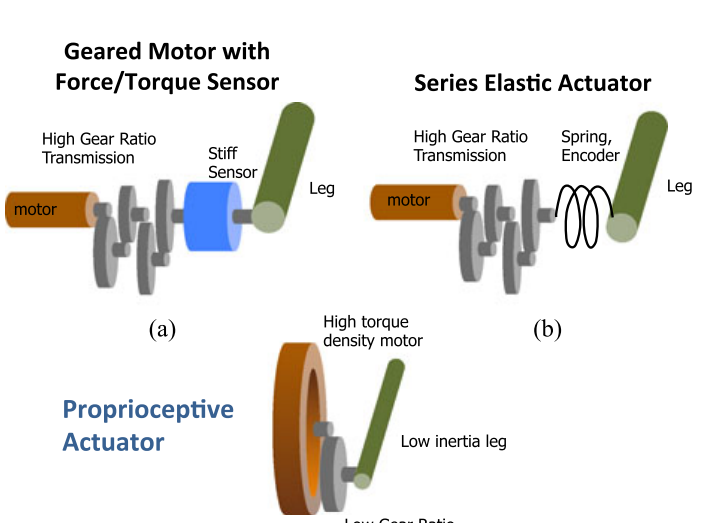
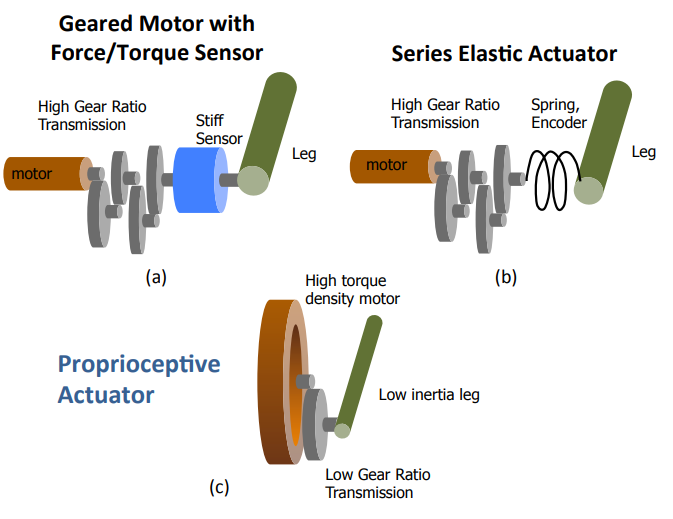
wip

diff --git a/_projects/2024-11-04-platov2.md b/_projects/2024-11-04-platov2.md
@@ -80,4 +80,60 @@ We made a first prototype of the PLATO hand with [Roboligent](https://roboligent
 - Wiring: Each motor has a total of 9 wires (3 phases + 6 SPI (including power)) With 9 motors and 3 voltage converters, and 3 ESP32 stacks (ESP32 + CAN Transceiver + SimpleFOC Mini). There are a lot of wires packed inside the hand case making it to challenge to diagnose hardware issues. 
 
 
-To address these problems, we have designed PLATO Hand V2 (PLATO2 Hand) with off-the-shelf quasi-direc drive actuator with on-board motor driver to increase 
+To address these problems, we have designed PLATO Hand V2 (PLATO2 Hand) with off-the-shelf quasi-direct drive actuator with on-board motor driver to increase the load capacity, decrease the control instability, and add more versatility in motion by greater range of motion to safetly achieve the desired task in the human enviroment.
+
+## Design (1) - Actuator 
+Actuators are the cornerstone of robotic design, particularly when utilizing off-the-shelf motors. While custom actuators offer greater design flexibility, their development is a time-consuming and costly endeavor, especially for robotic hand applications. These actuators must be compact, lightweight, and powerful—a challenging combination considering that motor torque is proportional to both power and mechanical reduction ratio. Miniaturizing such designs proves difficult as high power ratings and reduction ratios require significant space and weight.
+
+
+<div class="row">
+    <div class="col-sm mt-3 mt-md-0">
+        {% include figure.liquid loading="eager" path="assets/img/plato/proprio.jpg" title="fig1" class="img-fluid rounded z-depth-1" %}
+    </div>
+</div>
+<div class="caption">
+Three different electromagnetic (EM) actuator concepts. (a) High-ratio
+geared motor with torque sensor, (b) Series elastic actuator, (c) Proprioceptive
+force control actuator [1]
+</div>
+
+Torque density, a metric that evaluates an actuator's mass (kg) relative to its power (W), offers a valuable perspective on actuator performance. Wensing's work on proprioceptive actuator design for the Patrick Wensing's [Proprioceptive Actuator Design in MIT Cheetah](https://fab.cba.mit.edu/classes/865.18/motion/papers/mit-cheetah-actuator.pdf)[1] highlights key principles for legged robots, including reducing ground reaction forces, improving impact mitigation (backdrivability), increasing force transparency, and achieving high-bandwidth force control. Although robotic hand design may have less stringent requirements compared to legged robots, adopting these design principles can enable robotic hands to perform more versatile tasks beyond simple pick-and-place or in-hand manipulation of small, lightweight objects.
+
+High control bandwidth, transparency, and backdrivability can be achieved by employing a low reduction ratio, typically under 10, in a configuration known as a quasi-direct drive (QDD) actuator. The low gear ratio reduces the reflected rotor inertia, which improves control bandwidth, while the reduced friction enhances transparency and backdrivability. Among the off-the-shelf QDDs, [GIM3505-8](https://steadywin.cn/en/pd.jsp?id=130#_jcp=3_3) stands out as the most compact one with a 8:1 gear ratio with a rated torque of 0.43 Nm, and dimensions of 43 mm D x 30 mm H In addition, it provides integrated motor driver module with CAN bus communication. Because of these features, we have selected the GIM3505-8 for MCP and PIP joint actuators for PLATO2 Hand.
+
+## Design (2) - Finger Transmission
+Robotic finger modeling often assumes that the finger is an open-chain mechanism, with each joint capable of producing torque independently. However, placing an actuator at every joint is not a practical design choice due to its weight, bulkiness and resulting inertia during motion. Robot design often locates heavy and bulky actuators near the base (body) of the robot to achieve proximal actuation [2] and reduce the inertia of the distal links, and we have adopted same design principle for the finger of PLATO2 Hand.
+
+Among various transmission options, cable-driven mechanisms offer the highest transparency and minimal backlash [3], making them a popular choice for robotic hand designs. The flexibility of cables allows for efficient power transmission over long and curved paths, enabling more compact and anatomically accurate hand configurations by placing actuators near the wrist or forearm of the robotic hand. However, cable-driven mechanism require careful design to ensure proper tensioning, alignment, and termination of cables. In our application where frequent maintenance will be required due to tasks involving high-speed collision with the environment.
+
+Based on the requirements for collision resilience and durability, we have opted for a linkage transmission mechanism in our robotic hand design. While linkage mechanisms introduce complexities in kinematics, such as potential non-linearity in mechanical advantage and limited range of motion due to transmission angle and singularity, these challenges can be effectively addressed through careful design. One approach to mitigate the non-linear reduction issue is to employ a parallelogram-style four-bar linkage, where the input and output linkages are parallel to each other. This configuration results in simplified kinematics, as the mechanical advantage remains constant throughout the range of motion. Since we will be estimating the joint angles based on the motor encoder readings without employing additional sensors on the distal joints, simplifying the kinematics is crucial for PLATO2 Hand for accurate state estimation.
+
+<div class="row">
+    <div class="col-sm mt-3 mt-md-0">
+        {% include figure.liquid loading="eager" path="assets/img/plato/p2_collocated.jpg" title="fig1" class="img-fluid rounded z-depth-1" %}
+    </div>
+</div>
+<div class="caption">
+Collocating GIM3505-8 motors for PLATO2 Hand Compared to PLATO Hand
+</div>
+
+<div class="row">
+    <div class="col-sm mt-3 mt-md-0">
+        {% include figure.liquid loading="eager" path="assets/img/plato/2_4bar.jpg" title="double_four_bar" class="img-fluid rounded z-depth-1" %}
+    </div>
+</div>
+<div class="caption">
+Collocating GIM3505-8 motors for PLATO2 Hand Compared to PLATO Hand
+</div>
+
+However, collocating two motors like a previous PLATO Hand design is not a viable option due to increased thickness of the actuator while the rotation output of two motor have to be co-axial to keep linearity in the linkage kinematics
+
+
+
+
+
+[1] Wensing, P.M., Wang, A., Seok, S., Otten, D.M., Lang, J.H., & Kim, S. (2017). Proprioceptive Actuator Design in the MIT Cheetah: Impact Mitigation and High-Bandwidth Physical Interaction for Dynamic Legged Robots. IEEE Transactions on Robotics, 33, 509-522.
+
+[2] Bang, S.H., Gonzalez, C., Ahn, J., Paine, N., & Sentis, L. (2023). Control and evaluation of a humanoid robot with rolling contact joints on its lower body. Frontiers in Robotics and AI, 10.
+
+[3] Hwangbo, J., Tsounis, V., Kolvenbach, H., & Hutter, M. (2018). Cable-Driven Actuation for Highly Dynamic Robotic Systems. 2018 IEEE/RSJ International Conference on Intelligent Robots and Systems (IROS), 8543-8550.
